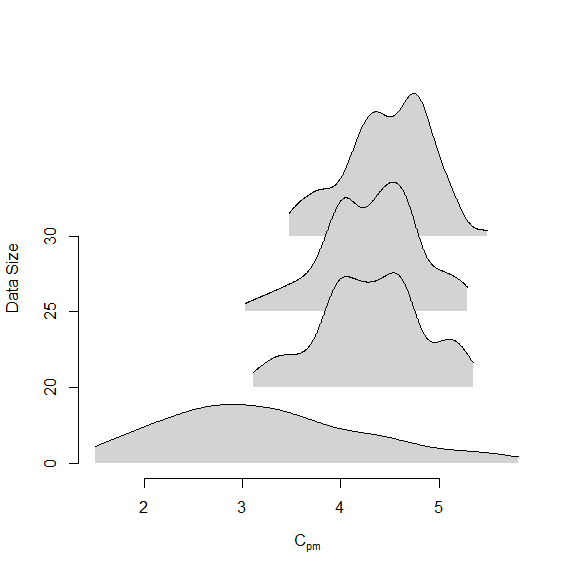
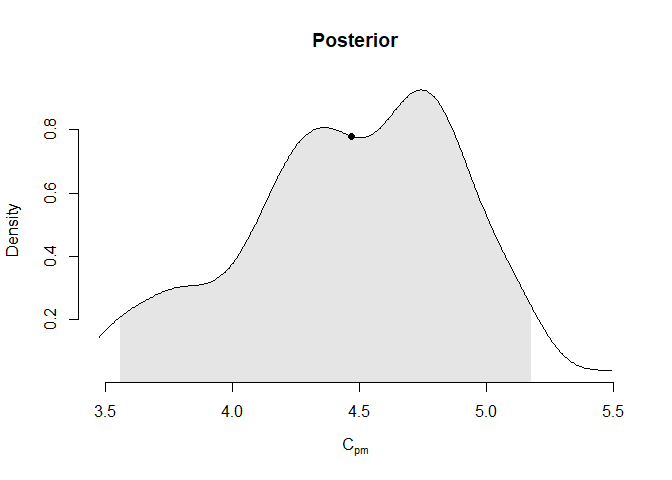
Adds plotting generics for prob mass and density, implements plotting single point distributions

diff --git a/README.md b/README.md
@@ -31,8 +31,8 @@ graphics::rug(data)
 model = pcj:::new_pcj_process_capability_model1(
   data,
   pcj::new_pci_parameters1(c("C_p", "C_pk", "C_pm"), 0, -3, 3, 1),
-  "dnorm(.7, 1)T(-2, 1.5)",
-  "dexp(1)T(1, 4)",
+  "dnorm(.7, 1)T(-2, 1.5)", # JAGS syntax
+  "dexp(1)T(1, 4)", # JAGS syntax
   pcj::new_prior_predictive_parameters(100L, 1L),
   pcj::new_rjags_parameters(50L, 100L, 1L, 4L, 123L, "base::Wichmann-Hill"),
   #stat = f,
@@ -123,10 +123,37 @@ plot(your_plot)
 
 <img src="man/figures/README-unnamed-chunk-7-1.png" width="100%" />
 
+## Point Priors
+
+``` r
+model = stats::update(model, prior_mu = 1L, evaluate = TRUE)
+#> NOTE: Stopping adaptation
+```
+
+``` r
+plot_prior_mass(model, what = "mu")
+```
+
+<img src="man/figures/README-unnamed-chunk-9-1.png" width="100%" />
+
+``` r
+
+plot_posterior_mass(model, what = "mu", graphics = "arrows")
+```
+
+<img src="man/figures/README-unnamed-chunk-9-2.png" width="100%" />
+
+``` r
+model = stats::update(
+  model, prior_mu = "dnorm(.7, 1)T(-2, 1.5)", evaluate = TRUE)
+#> NOTE: Stopping adaptation
+```
+
 ## The `graphics` Parameter
 
 The `graphics` parameter can be set to `"lines"` (the default),
-`"points"`, or `"area"`.
+`"points"`, or `"area"`. In case of a single point prior (like shown
+earlier) `"lines"` and `"arrows"` are available.
 
 ``` r
 pcj::plot_posterior_density(model, what = "C_pm")
@@ -141,7 +168,7 @@ pcj::plot_posterior_density(
   add = TRUE)
 ```
 
-<img src="man/figures/README-unnamed-chunk-8-1.png" width="100%" />
+<img src="man/figures/README-unnamed-chunk-11-1.png" width="100%" />
 
 ## Sequential Procedure
 
@@ -174,7 +201,7 @@ summary(seq_proc) |>
 pcj::plot_sequential_procedure(seq_proc, what = "C_pm", display = "ridges")
 ```
 
-<img src="man/figures/README-unnamed-chunk-11-1.png" width="100%" />
+<img src="man/figures/README-unnamed-chunk-14-1.png" width="100%" />
 
 ## Plotting Using `ggplot2`
 
@@ -197,7 +224,7 @@ c(
 #> Loading required namespace: ggplot2
 ```
 
-<img src="man/figures/README-unnamed-chunk-13-1.png" width="100%" />
+<img src="man/figures/README-unnamed-chunk-16-1.png" width="100%" />
 
 ``` r
 # Reset the graphics driver.
@@ -289,7 +316,7 @@ model$posterior$C_pm$sd()
 model$prior$mu$plot_density()
 ```
 
-<img src="man/figures/README-unnamed-chunk-19-1.png" width="100%" />
+<img src="man/figures/README-unnamed-chunk-22-1.png" width="100%" />
 
 ## The `stat` Parameter
 
@@ -317,4 +344,4 @@ model$posterior$C_pm$plot_density(
   add = TRUE, col = "steelblue", lwd = 1.5)
 ```
 
-<img src="man/figures/README-unnamed-chunk-20-1.png" width="100%" />
+<img src="man/figures/README-unnamed-chunk-23-1.png" width="100%" />
